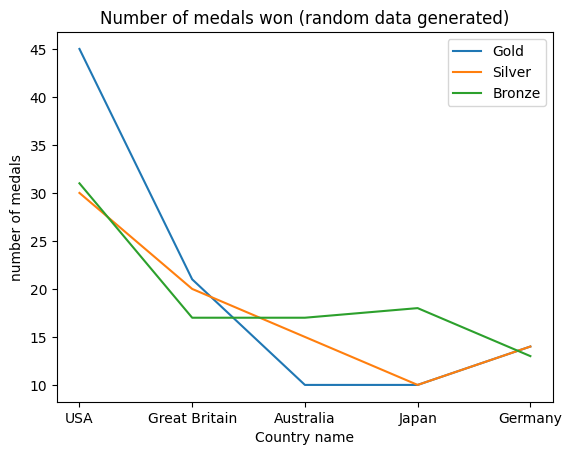
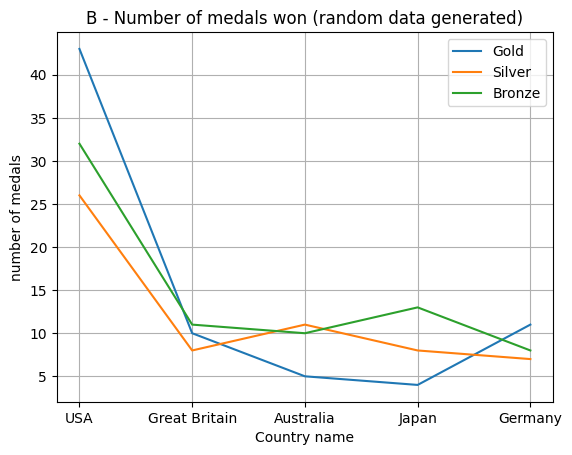
moved graph generation to be function based instead of hard-coded

diff --git a/code/main.py b/code/main.py
@@ -2,47 +2,55 @@ from quiz.question import Question
 from quiz.controller import QuizController
 from quiz.ui import QuizUI
 
-
-# Just deine 1 question for testing purposes
-question = Question("Which Graph shows more gold medals for the UK?",
+# Line max trial 1 and 2
+question = Question("Which Graph shows more gold medals for GB?",
                     "assets/line-max-trial-1.png",
                     "assets/line-max-trial-2.png", "A", ["A", "", "", "","B"], "line")
 question2 = Question("Which Graph shows more total medals for the USA?",
                     "assets/line-max-trial-1.png",
                     "assets/line-max-trial-2.png", "B", ["A", "", "", "", "B"], "line")
-question3 = Question("Which Graph shows more gold medals for the UK?",
+
+# Area max trial 1 and 2
+question3 = Question("Which Graph shows more gold medals for GB?",
                     "assets/area-max-trial-1.png",
                     "assets/area-max-trial-2.png", "B", ["A", "", "", "", "B"], "area")
 question4 = Question("Which Graph shows more total medals for the USA?",
                     "assets/area-max-trial-1.png",
                     "assets/area-max-trial-2.png", "B", ["A", "", "", "", "B"], "area")
 
-### Remake
-question5 = Question("In which Graph did UK win less bronze medals?",
+# Line max trial 3 and 4
+question5 = Question("In which Graph did GB win less bronze medals?",
                     "assets/line-max-trial-3.png", 
                     "assets/line-max-trial-4.png", "B", ["A", "", "", "", "B"], "line")
 question6 = Question("What is the sum of the silver medals won by Germany in both graphs?",
                     "assets/line-max-trial-3.png",
                     "assets/line-max-trial-4.png", "44", ["38", "40", "44", "46", "48"], "line")
-question7 = Question("In which Graph did UK win less bronze medals?",
+
+# Area max trial 3 and 4
+question7 = Question("In which Graph did GB win less bronze medals?",
                     "assets/area-max-trial-3.png",
                     "assets/area-max-trial-4.png", "A", ["A", "", "", "", "B"], "area")
 question8 = Question("What is the sum of the silver medals won by Germany in both graphs?",
                     "assets/area-max-trial-3.png",
                     "assets/area-max-trial-4.png", "37", ["33", "35", "37", "39", "41"], "area")
 
+# line years trial 1 and 2
 question9 = Question("In Graph A, which year shows the least amount of total medals gained?",
                     "assets/line-years-trial-1.png", # 109, 111, 112, 
                     "assets/line-years-trial-2.png", "Year 1", ["Year 1", "Year 2", "Year 3", "Year 4", "Year 5"], "line")
 question10 = Question("In Graph B, which year shows the least amount of total medals gained??",
                     "assets/line-years-trial-1.png",
                     "assets/line-years-trial-2.png", "Year 2", ["Year 1", "Year 2", "Year 3", "Year 4", "Year 5"], "line")
+
+# area years trial 1 and 2
 question11 = Question("In Graph A, which year shows the least amount of total medals gained?",
                     "assets/area-years-trial-1.png",
                     "assets/area-years-trial-2.png", "Year 3", ["Year 1", "Year 2", "Year 3", "Year 4", "Year 5"], "area")
 question12 = Question("In Graph B, which year shows the least amount of total medals gained?",
                     "assets/area-years-trial-1.png",
                     "assets/area-years-trial-2.png", "Year 4", ["Year 1", "Year 2", "Year 3", "Year 4", "Year 5"], "area")
+
+# line max trial 5 and 6
 question13 = Question("In Graph A, which country got the most medals?",
                     "assets/line-max-trial-5.png",
                     "assets/line-max-trial-6.png", "GB", ["GB", "AUS", "JP", "GER", ""], "line")
@@ -55,6 +63,8 @@ question15 = Question("In Graph B, which country got the most medals?",
 question16 = Question("In Graph B, which country got the 2nd highest amount of medals?",
                     "assets/line-max-trial-5.png",
                     "assets/line-max-trial-6.png", "AUS", ["GB", "AUS", "JP", "GER", ""], "line")
+
+# area max trial 5 and 6
 question17 = Question("In Graph A, which country got the most medals?",
                     "assets/area-max-trial-5.png",
                     "assets/area-max-trial-6.png", "GER", ["GB", "AUS", "JP", "GER", ""], "area")
@@ -67,6 +77,7 @@ question19 = Question("In Graph B, which country got the most medals?",
 question20 = Question("In Graph B, which country got the 2nd highest amount of medals?",
                     "assets/area-max-trial-5.png",
                     "assets/area-max-trial-6.png", "GB", ["GB", "AUS", "JP", "GER", ""], "area")
+
 question21 = Question("Which graphtype do you find easier to read??",
                     "assets/line-max-trial-1.png",
                     "assets/area-max-trial-1.png", "line", ["line", "", "", "", "area"], "")

diff --git a/code/graph_gen/dataGen.py b/code/graph_gen/dataGen.py
@@ -15,7 +15,7 @@ GER: 11-17, 10-20, 13-15
 """
 
 def get_country_list():
-    return ["Great Britain", "Australia", "Japan", "Germany"]
+    return ["USA", "Great Britain", "Australia", "Japan", "Germany"]
 
 
 def get_year_list():
@@ -27,11 +27,22 @@ def get_5_american_years():
             [r.randint(30, 38), r.randint(30, 38), r.randint(30, 38), r.randint(30, 38), r.randint(30, 38)]]
 
 def get_gold_medal_data():
-    return [ r.randint(13, 22), r.randint(8, 14), r.randint(7, 12), r.randint(11, 17)]
+    return [r.randint(36, 48), r.randint(13, 22), r.randint(8, 14), r.randint(7, 12), r.randint(11, 17)]
 
 def get_silver_medal_data():
-    return [ r.randint(13, 23), r.randint(11, 15), r.randint(8, 14), r.randint(10, 20)]
+    return [r.randint(22, 37), r.randint(13, 23), r.randint(11, 15), r.randint(8, 14), r.randint(10, 20)]
 
 def get_bronze_medal_data():
-    return [r.randint(12, 19), r.randint(10, 17), r.randint(8, 21), r.randint(13, 15)]
+    return [r.randint(30, 38), r.randint(12, 19), r.randint(10, 17), r.randint(8, 21), r.randint(13, 15)]
+
+
+## Obvious lower numbers
+def get_lower_gold_data():
+    return [r.randint(36, 48) - 5, r.randint(13, 22) - 5, r.randint(8, 14) - 5, r.randint(7, 12) - 5, r.randint(11, 17) - 5]
+
+def get_lower_silver_data():
+    return [r.randint(22, 37) - 5, r.randint(13, 23) - 10, r.randint(11, 15), r.randint(8, 14) - 5, r.randint(10, 20) - 5]
+
+def get_lower_bronze_data():
+    return [r.randint(30, 38) - 5, r.randint(12, 19) - 5, r.randint(10, 17) - 5, r.randint(8, 21) - 5, r.randint(13, 15) - 5]    
 

diff --git a/code/quiz/ui.py b/code/quiz/ui.py
@@ -79,6 +79,13 @@ class QuizUI:
         self.canvas.itemconfig(self.question_text, text=text)
 
     def update_graphs(self):
+        
+        # Question indexes that do not reuqire the 1st graph
+        hide_img_1 = [10, 12, 15, 16, 19, 20]
+
+        # Question indexes that do not require the 2nd graph
+        hide_img_2 = [9, 11, 13, 14, 17, 18]
+
         global img1
         global img2
 
@@ -87,6 +94,22 @@ class QuizUI:
 
         img2 = ImageTk.PhotoImage(Image.open(os.path.normpath(self.controller.current_question.image_path2)))
         self.canvas.itemconfig(self.image2, image=img2)
+
+        if self.controller.q_numb in hide_img_1:
+            self.canvas.itemconfig(self.image1, state="hidden")
+            self.canvas.itemconfig(self.image2, state="normal")
+            self.canvas.move(self.image2, -300, 0)
+
+        elif self.controller.q_numb in hide_img_2:
+            self.canvas.itemconfig(self.image1, state="normal")
+            self.canvas.itemconfig(self.image2, state="hidden")
+            self.canvas.move(self.image1, 300, 0)
+        elif self.controller.q_numb == 21:
+            self.canvas.itemconfig(self.image2, state="normal")
+            self.canvas.itemconfig(self.image1, state="normal")
+            self.canvas.move(self.image1, 300, 0)
+            self.canvas.move(self.image2, -300, 0)
+
 
     def answer_buttons(self):
         """Function to create answer buttons"""

diff --git a/code/graph_gen/graphGen.py b/code/graph_gen/graphGen.py
@@ -1,0 +1,30 @@
+import matplotlib.pyplot as plt
+
+def gen_line(x_labels, gold_medals, silver_medals, bronze_medals, graph_label, graph_numb):
+    """Function to generate line graphs"""
+    plt.plot(x_labels, gold_medals, label="Gold", color="#FFD700")
+    plt.plot(x_labels, silver_medals, label="Silver", color="#C0C0C0")
+    plt.plot(x_labels, bronze_medals, label="Bronze", color="#CD7F32")
+
+    plt.xlabel("Country name")
+    plt.ylabel("number of medals")
+    plt.legend()
+    plt.grid()
+    plt.title(f"{graph_label}Number of medals won")
+
+    plt.savefig(f"assets/line-max-trial-{graph_numb}.png", bbox_inches="tight")
+
+def gen_area(x_labels, gold_medals, silver_medals, bronze_medals, graph_label, graph_numb):
+    """Function to generate area graphs"""
+    plt.stackplot(x_labels, gold_medals, silver_medals, bronze_medals, labels=["Gold", "Silver", "Bronze"])
+    
+    plt.xlabel("Country name")
+    plt.ylabel("number of medals")
+    
+    plt.yticks([10, 20, 30, 40, 50, 60, 70, 80, 90, 100, 110, 120])
+    
+    plt.legend()
+    plt.grid()
+    plt.title("A - Number of medals won (random data generated)")
+    
+    plt.savefig("assets/area-max-trial-3.png", bbox_inches="tight")

diff --git a/code/graph_gen/createGraphs.py b/code/graph_gen/createGraphs.py
@@ -1,0 +1,16 @@
+from graphGen import gen_line, gen_area
+
+def generate_graphs():
+    country_list = ["USA", "Great Britain", "Australia", "Japan", "Germany"]
+
+    # x_labels, gold_medals, silver_medals, bronze_medals, graph_label, graph_numb
+    gen_line(
+        country_list,
+        [45, 22, 8, 7, 16],
+        [36, 16, 12, 8, 17],
+        [34, 17, 10, 13, 14],
+        "A - ",
+        1
+    )
+
+generate_graphs()
